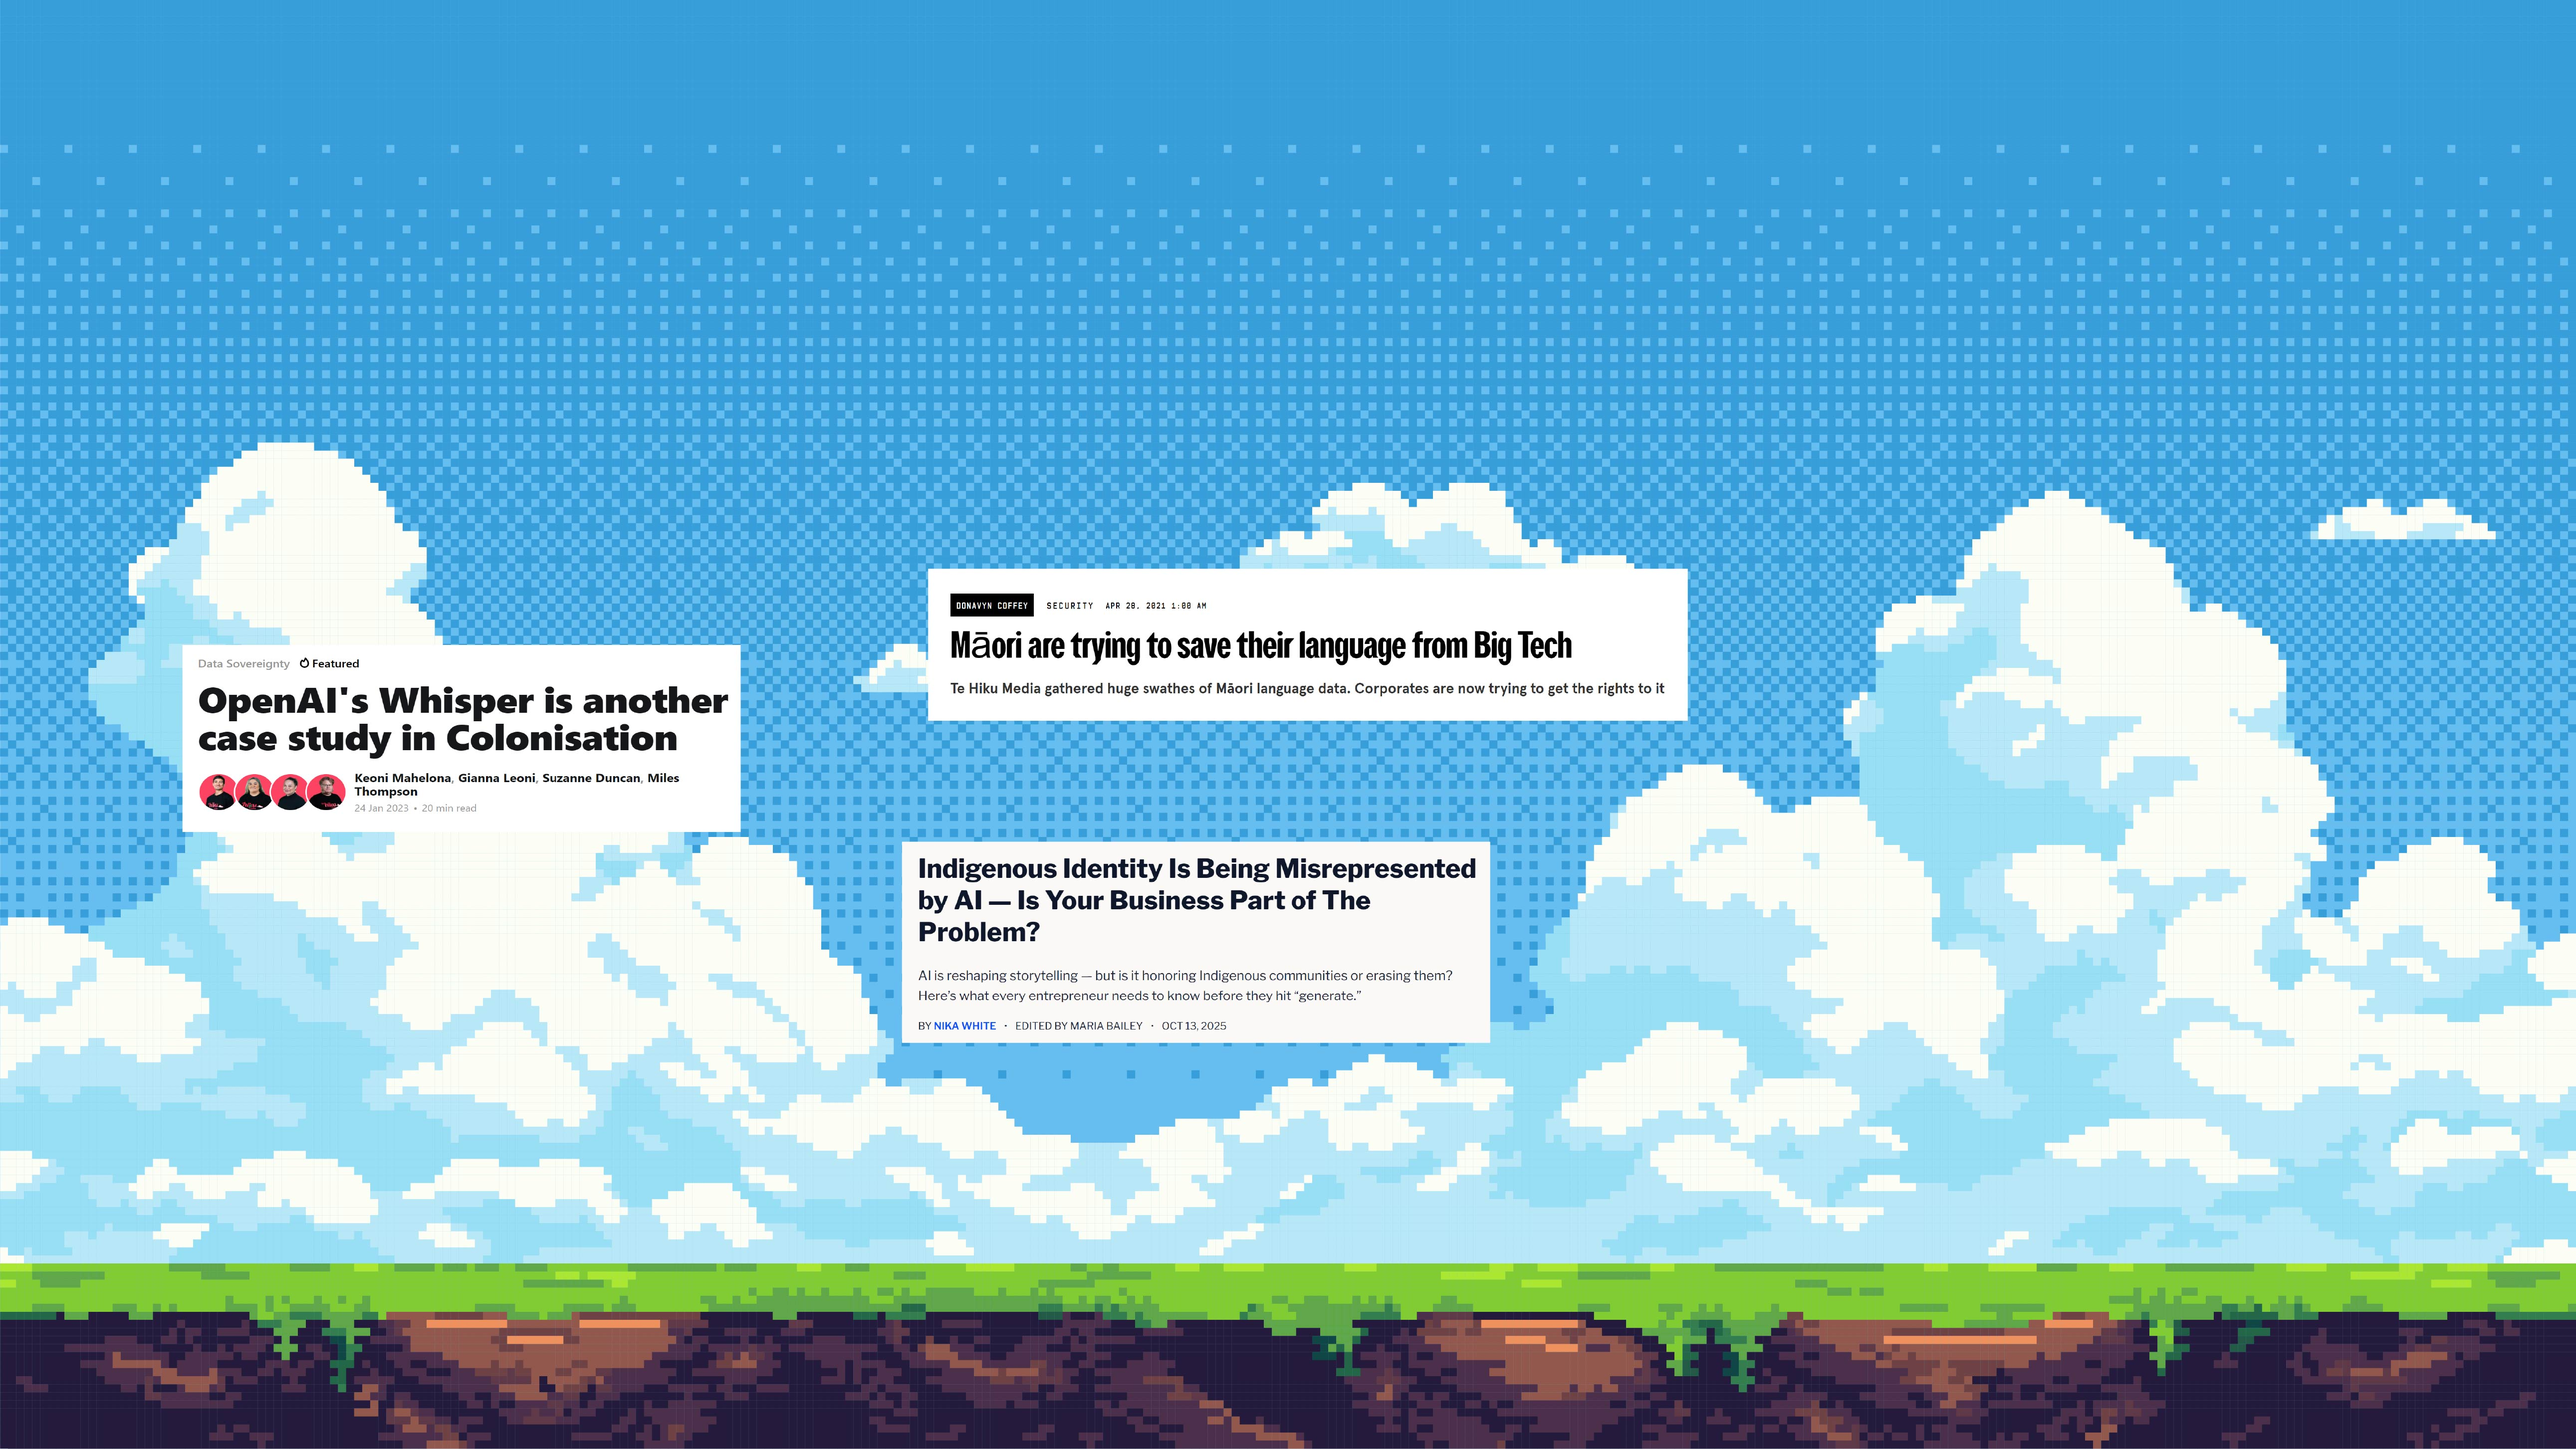
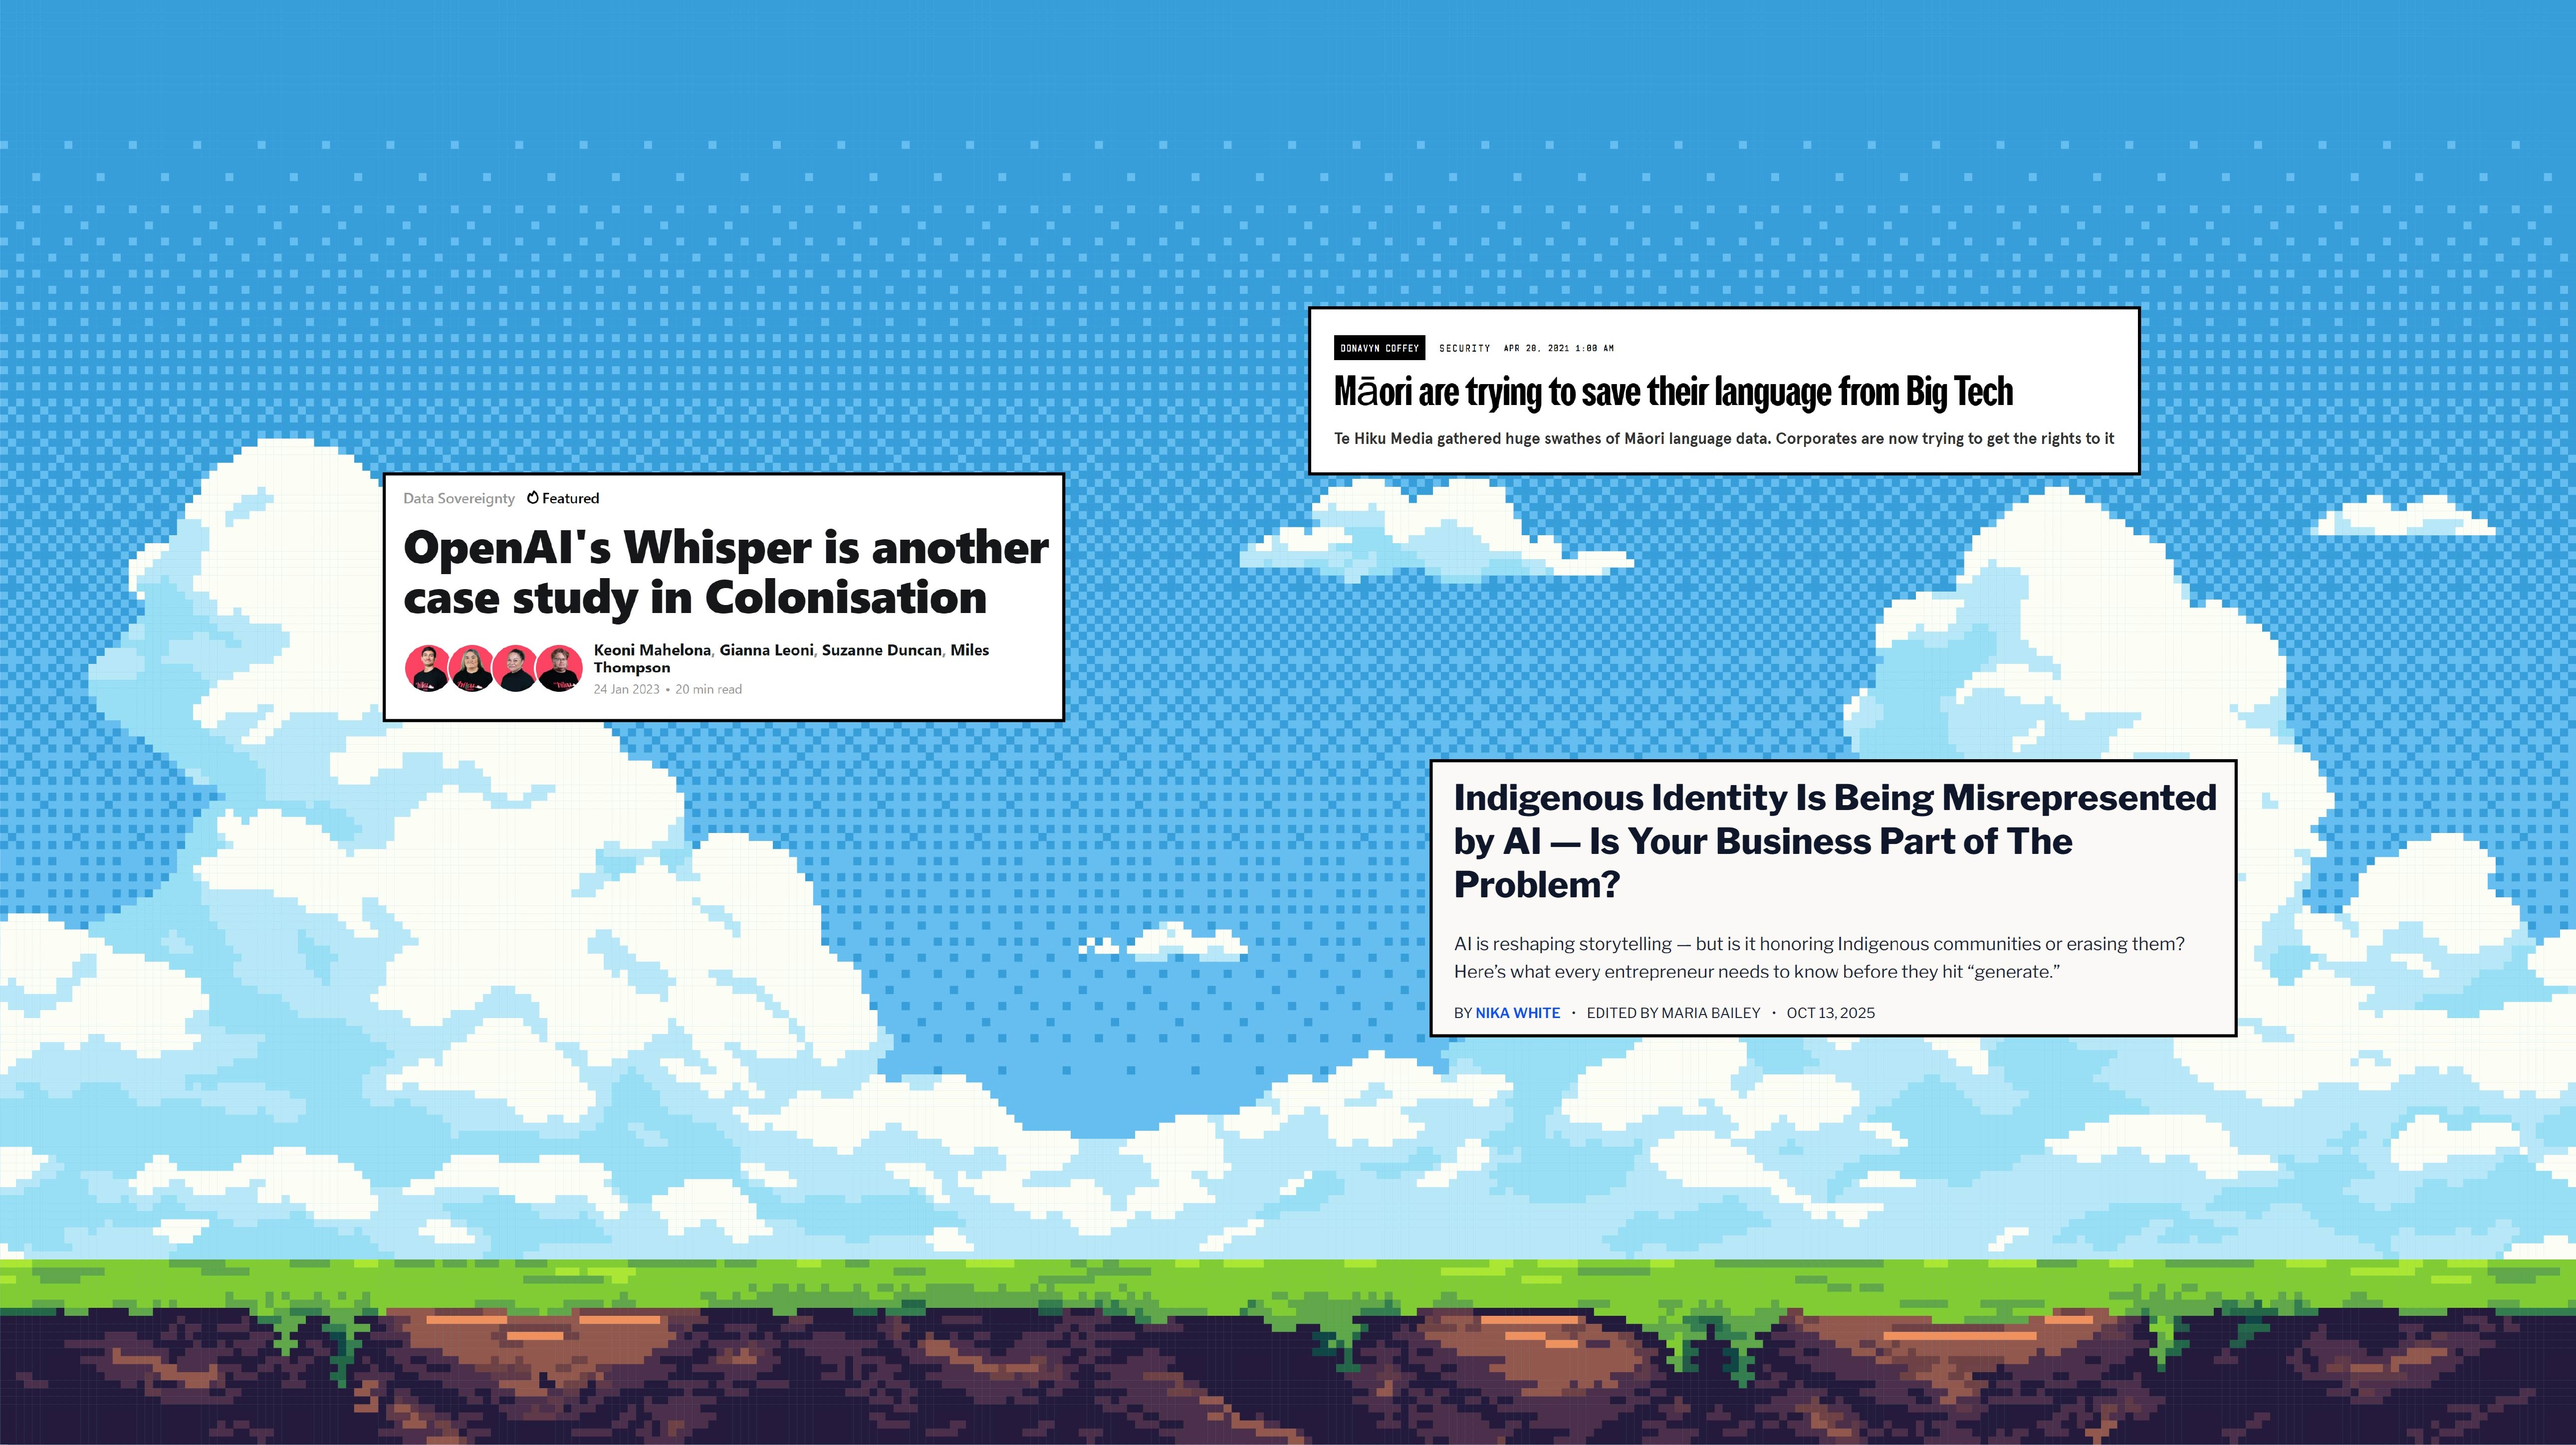
Made Changes!

Changed region(s): [[0.0, 0.1864, 1.0, 0.7456]]

diff --git a/main.js b/main.js
@@ -129,11 +129,7 @@ function setupEventListeners() {
         CONFIG.keys[e.key] = false;
     });
     
-    // Main window controls
-    const windowControls = document.querySelectorAll('.window-control');
-    windowControls[0].addEventListener('click', () => alert('Minimized (simulated)'));
-    windowControls[1].addEventListener('click', toggleMaximize);
-    windowControls[2].addEventListener('click', closeWindow);
+
     
     // Window resize
     window.addEventListener('resize', () => {
@@ -142,18 +138,7 @@ function setupEventListeners() {
     });
 }
 
-function toggleMaximize() {
-    const window = document.querySelector('.windows-window');
-    window.style.width = window.style.width === '100%' ? '98%' : '100%';
-    window.style.height = window.style.height === '100vh' ? '80vh' : '100vh';
-}
 
-function closeWindow() {
-    if (confirm('Close game? This will reset your progress.')) {
-        document.getElementById('game-container').style.display = 'none';
-        window.location.reload();
-    }
-}
 
 // ============================================
 // GAME WORLD & SECTIONS
@@ -176,10 +161,9 @@ function createGameSections() {
             video.muted = true;
             video.playsInline = true;
 
-            video.style.width = '110%';
-            video.style.height = '100%';
+            video.style.width = '100%';
+            video.style.height = '110%';
             video.style.objectFit = 'contain';
-            video.style.transform = 'translateX(-11vw)';
 
 
             section.appendChild(video);
@@ -296,7 +280,7 @@ function movePlayer(deltaX) {
     if (CONFIG.isTransitioning) return;
     
     const playerRect = CONFIG.playerCanvas.getBoundingClientRect();
-    const windowRect = document.querySelector('.window-content').getBoundingClientRect();
+    const windowRect = document.getElementById('game-container').getBoundingClientRect();
     let newLeft = parseInt(CONFIG.playerCanvas.style.left) || 100;
     newLeft += deltaX;
     
@@ -342,7 +326,7 @@ function triggerSectionTransition(direction) {
     
     updateGameWorldPosition();
     
-    const windowRect = document.querySelector('.window-content').getBoundingClientRect();
+    const windowRect = document.getElementById('game-container').getBoundingClientRect();
     const playerRect = CONFIG.playerCanvas.getBoundingClientRect();
     
     if (direction > 0) {
@@ -376,7 +360,7 @@ function checkSection11Trigger() {
     // Check if we're in section 13 (index 12) and popups aren't active yet
     if (CONFIG.currentSection === 10 && !section11PopupsActive) {
         const playerRect = CONFIG.playerCanvas.getBoundingClientRect();
-        const windowRect = document.querySelector('.window-content').getBoundingClientRect();
+        const windowRect = document.getElementById('game-container').getBoundingClientRect();
         const playerLeft = parseInt(CONFIG.playerCanvas.style.left) || 100;
         const playerRight = playerLeft + playerRect.width;
         const triggerZone = windowRect.width - 100; // Trigger 100px from right edge
@@ -461,7 +445,7 @@ function createSection11Popups() {
             popup.style.height = size.h + 'px';
             
             // Add to game window
-            const windowContent = document.querySelector('.window-content');
+            const windowContent = document.getElementById('game-container');
             if (windowContent) {
                 windowContent.appendChild(popup);
             }

diff --git a/index.html b/index.html
@@ -13,29 +13,11 @@
     </section>
 
     <!-- Section 2: Side-scrolling Game -->
-    <section id="game-container">
-        <div class="windows-window">
-            <div class="window-titlebar">
-                <div class="window-title">How to Crash an Oppressive Algorithm - The Game!</div>
-                <div class="window-controls">
-                    <div class="window-control">_</div>
-                    <div class="window-control">□</div>
-                    <div class="window-control">×</div>
-                </div>
-            </div>
-            <div class="window-content">
-                <div id="game-world">
-                    <!-- Sections are created dynamically by JavaScript -->
-                </div>
-                
+<section id="game-container">
+    <div id="game-world"></div>
+    <canvas id="player-canvas"></canvas>
+</section>
 
-                <!-- Canvas for player sprite -->
-                <canvas id="player-canvas"></canvas>
-                
-
-            </div>
-        </div>
-    </section>
 
     <!-- NOTE: All popups are created dynamically by JavaScript -->
     <!-- Section 13 popups will be created when player reaches end of section 10 -->

diff --git a/style.css b/style.css
@@ -54,19 +54,13 @@ html, body {
 
 /* ========== GAME CONTAINER ========== */
 #game-container {
-    width: 100%;
-    min-height: 100vh;
-    background: black;
-    padding: 30px 0;
-    display: flex;
-    justify-content: center;
-    align-items: center;
     position: fixed;
-    top: 5vh;
-    left: 8vw;
-    z-index: 50;
-    visibility: hidden;
-    opacity: 0;
+    inset: 0;
+    width: 100vw;
+    height: 100vh;
+
+    display: none; /* shown after START GAME */
+    background: #000;
 }
 
 /* Fade animations */
@@ -183,7 +177,6 @@ html, body {
 
 .section-4 { 
     background-image: url('imgs/RecommendedReadings.jpg');
-    background-size: 100% 125%;
 
 
 }
